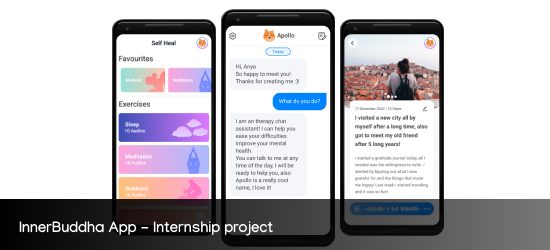
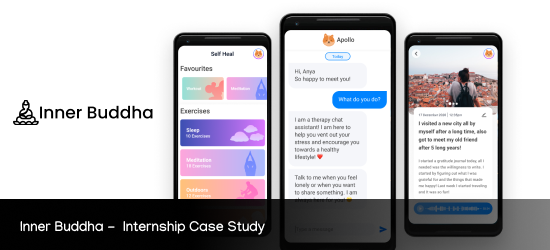
portfolio update - 100421

diff --git a/index.html b/index.html
@@ -32,8 +32,9 @@
     <hr style=" width: 70% ">
     <br/>
     <div class="sec2">
-      <a class="secc1" id="secc" href=" " target="_blank"></a>
-      <a class="secc2" id="secc" href="https://www.behance.net/gallery/104890719/Exchange-A-Minimal-Library-Management-App" target="_blank"></a>
+      <a class="secc1" id="secc" href="https://www.behance.net/gallery/115967235/Inner-Buddha-Internship-Case-Study" target="_blank"></a>
+      <a class="secc2" id="secc" href="https://www.behance.net/gallery/104890719/Exchange-A-Minimal-Library-Management-App"
+        target="_blank"></a>
     </div>
     <div class="sec2">
       
